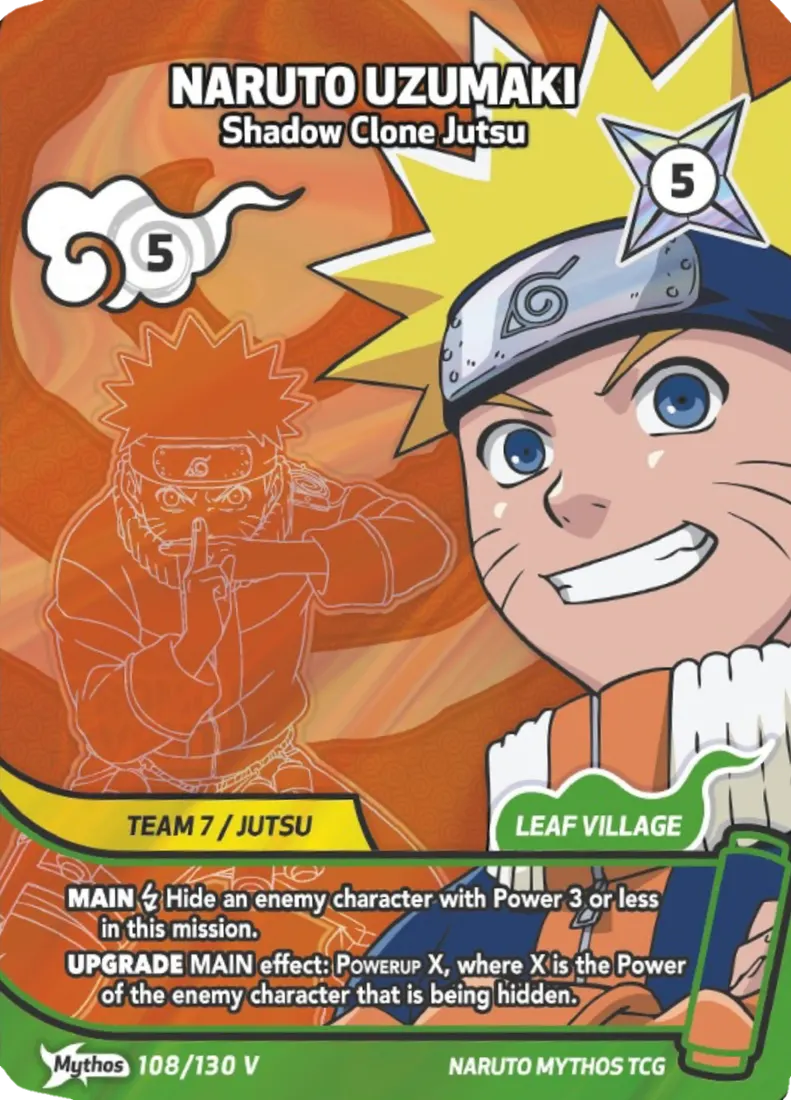
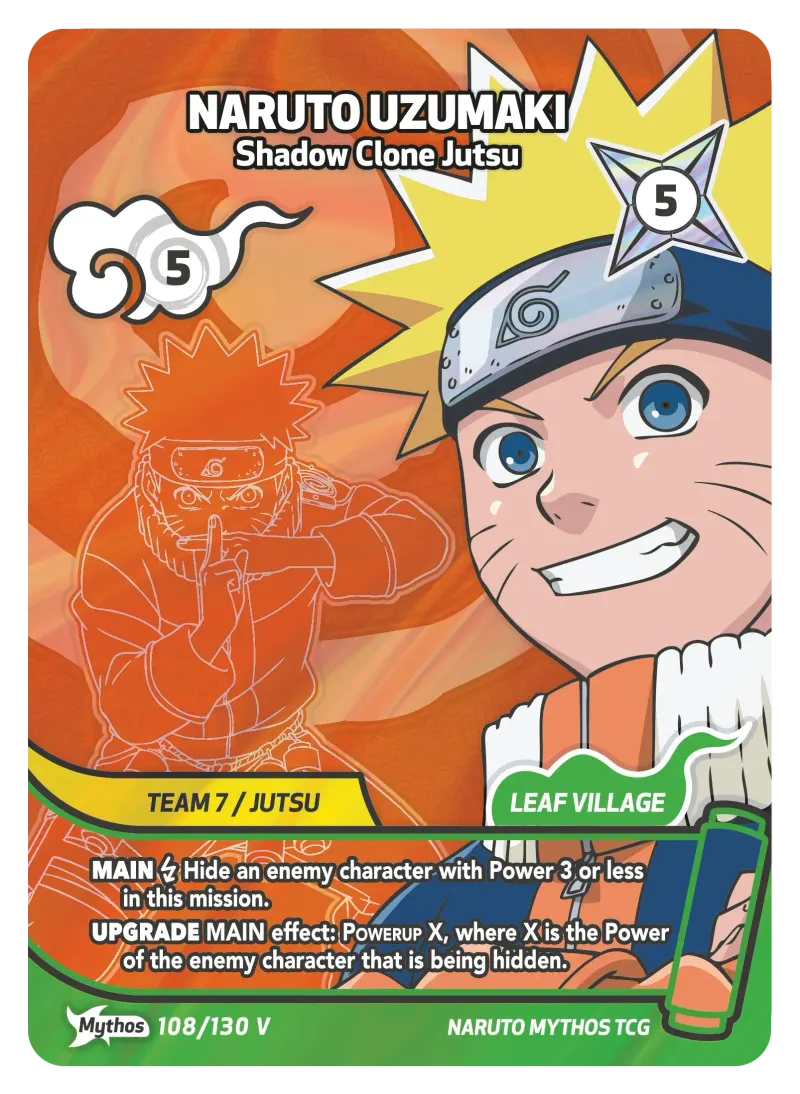
feat: new art for Naruto 108_4 MV and Neji 112 SPV, low chess clock far more visible with the room-join alert sound

diff --git a/components/game/ChessClockDisplay.tsx b/components/game/ChessClockDisplay.tsx
@@ -40,14 +40,14 @@ interface PulseSpec {
 function pulseAnimForRemaining(remainingMs: number): PulseSpec | null {
   if (remainingMs <= HARD_RED_AT_MS) {
     return {
-      animate: { scale: [1, 1.08, 1], opacity: [0.85, 1, 0.85] },
-      transition: { duration: 0.5, repeat: Infinity, ease: 'easeInOut' },
+      animate: { scale: [1, 1.18, 1], opacity: [0.8, 1, 0.8] },
+      transition: { duration: 0.45, repeat: Infinity, ease: 'easeInOut' },
     };
   }
   if (remainingMs <= RED_AT_MS) {
     return {
-      animate: { scale: [1, 1.04, 1], opacity: [0.9, 1, 0.9] },
-      transition: { duration: 0.8, repeat: Infinity, ease: 'easeInOut' },
+      animate: { scale: [1, 1.1, 1], opacity: [0.85, 1, 0.85] },
+      transition: { duration: 0.7, repeat: Infinity, ease: 'easeInOut' },
     };
   }
   if (remainingMs <= ORANGE_AT_MS) {
@@ -57,6 +57,19 @@ function pulseAnimForRemaining(remainingMs: number): PulseSpec | null {
     };
   }
   return null;
+}
+
+function lowTimeEmphasis(remainingMs: number): { glow: string; bg: string | null; sizeBoost: number } {
+  if (remainingMs <= HARD_RED_AT_MS) {
+    return { glow: '0 0 20px rgba(179,62,62,0.7), 0 0 6px rgba(179,62,62,0.5)', bg: 'rgba(179,62,62,0.2)', sizeBoost: 5 };
+  }
+  if (remainingMs <= RED_AT_MS) {
+    return { glow: '0 0 14px rgba(179,62,62,0.5)', bg: 'rgba(179,62,62,0.14)', sizeBoost: 3 };
+  }
+  if (remainingMs <= ORANGE_AT_MS) {
+    return { glow: 'none', bg: 'rgba(204,122,48,0.12)', sizeBoost: 0 };
+  }
+  return { glow: 'none', bg: null, sizeBoost: 0 };
 }
 
 export const ChessClockDisplay = React.memo(function ChessClockDisplay({ player, isOpponent }: ChessClockDisplayProps) {
@@ -116,7 +129,7 @@ export const ChessClockDisplay = React.memo(function ChessClockDisplay({ player,
       }
       if (!playedWarningSoundRef.current) {
         playedWarningSoundRef.current = true;
-        playSound('clockWarning');
+        playSound('roomJoin');
       }
       return;
     }
@@ -137,14 +150,16 @@ export const ChessClockDisplay = React.memo(function ChessClockDisplay({ player,
   const idleWarningUsed = chessClock[player].idleWarningUsed;
   const color = colorForRemaining(remaining, isOpponent);
   const pulse = pulseAnimForRemaining(remaining);
+  const emphasis = lowTimeEmphasis(remaining);
 
   const padX = isMobile ? 6 : 8;
   const padY = isMobile ? 2 : 3;
-  const fontSize = isMobile ? 13 : 14;
+  const fontSize = (isMobile ? 13 : 14) + emphasis.sizeBoost;
   const minW = isMobile ? 56 : 68;
 
   const containerStyle: React.CSSProperties = {
-    backgroundColor: isActive ? 'rgba(196, 163, 90, 0.10)' : 'transparent',
+    backgroundColor: emphasis.bg ?? (isActive ? 'rgba(196, 163, 90, 0.10)' : 'transparent'),
+    boxShadow: emphasis.glow,
     padding: `${padY}px ${padX}px`,
     minWidth: minW,
     display: 'flex',

diff --git a/lib/utils/imagePath.ts b/lib/utils/imagePath.ts
@@ -1,5 +1,5 @@
 
-export const IMAGE_VERSION = 5;
+export const IMAGE_VERSION = 6;
 
 export function normalizeImagePath(imageFile?: string): string | null {
   if (!imageFile) return null;
